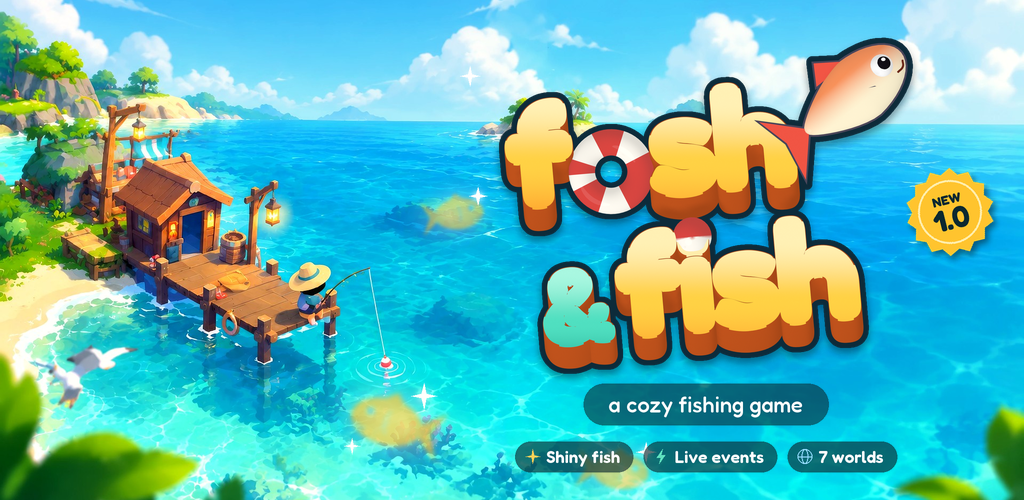
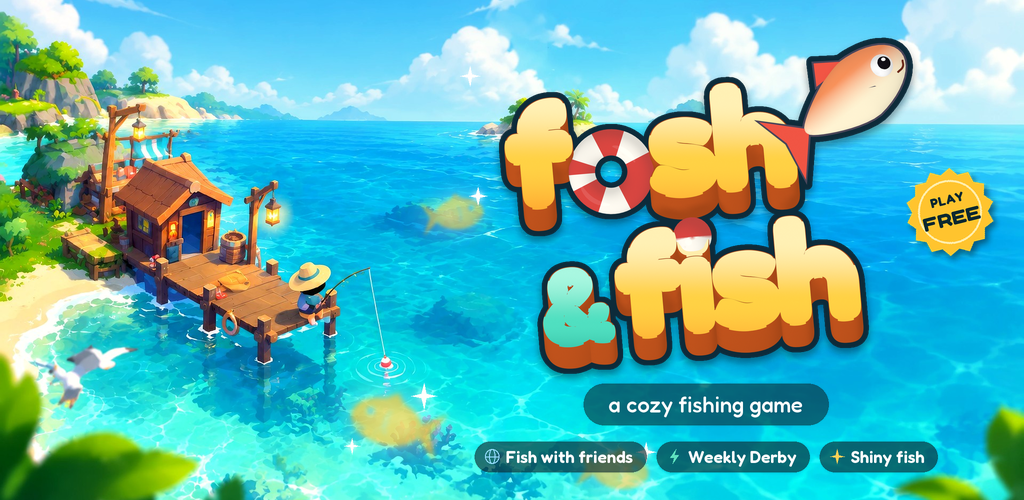
Store texts for today's game: the Play listing's highlights and what's new, ad texts for the friends and Derby ads, a feature graphic without a version number
The feature graphic's sticker says PLAY FREE (no '1.0': the listing outlives updates) and
its chips are Fish with friends, Weekly Derby, Shiny fish.

Changed region(s): [[0.4375, 0.87, 0.9375, 0.96], [0.9062, 0.39, 0.9688, 0.48]]

diff --git a/tools/art/make_play_kit.py b/tools/art/make_play_kit.py
@@ -101,8 +101,9 @@ def badge(ui, center, r, angle=-14.0):
     d = ImageDraw.Draw(b)
     d.polygon(pts, fill=(255, 196, 46, 255))
     d.ellipse((c - r * 0.72, c - r * 0.72, c + r * 0.72, c + r * 0.72), outline=(255, 238, 170, 255), width=max(2, int(r * 0.05)))
-    d.text((c, c - r * 0.3), "NEW", font=MB.font(int(r * 0.3), 700, 100), fill=MB.DEEP, anchor="mm")
-    d.text((c, c + r * 0.14), "1.0", font=MB.font(int(r * 0.66), 700, 112), fill=MB.DEEP, anchor="mm")
+    # (no version number on it: the listing outlives every update)
+    d.text((c, c - r * 0.3), "PLAY", font=MB.font(int(r * 0.3), 700, 100), fill=MB.DEEP, anchor="mm")
+    d.text((c, c + r * 0.14), "FREE", font=MB.font(int(r * 0.44), 700, 112), fill=MB.DEEP, anchor="mm")
     b = b.rotate(-angle, Image.BICUBIC)
     ui.alpha_composite(b, (int(center[0] - c), int(center[1] - c)))
 
@@ -175,7 +176,7 @@ def feature():
                                            fill=(11, 41, 48, 150))
     ui.alpha_composite(pill)
     ImageDraw.Draw(ui).text((px, py), text, font=f, fill=(255, 255, 255), anchor="mm")
-    chips(ui, px, py + th * 1.25, [("shiny", "Shiny fish", GOLD), ("bolt", "Live events", MB.MINT), ("globe", "7 worlds", (150, 220, 255))],
+    chips(ui, px, py + th * 1.25, [("globe", "Fish with friends", (150, 220, 255)), ("bolt", "Weekly Derby", MB.MINT), ("shiny", "Shiny fish", GOLD)],
           17 * SS)
     badge(ui, (950 * SS, 212 * SS), 44 * SS)
     c.alpha_composite(ui.resize((w, h), Image.LANCZOS))

diff --git a/store/ads/ad_copy.md b/store/ads/ad_copy.md
@@ -34,8 +34,10 @@ Google mixes these itself. Headlines: 30 characters at most. Descriptions: 90 at
 - Only 3,000 of each shiny fish exist, and every one is numbered. Catch yours in fosh&fish, a cozy fishing game.
 - Every 10 minutes of fishing, a new event: Golden Hour, Fish Frenzy, Meteor Showers, and the Leviathan.
 - Cast. Catch. Collect. A cozy fishing game with 7 worlds to fish in. Free on phone and PC.
+- Fish with your friends: send a code and their boats sail into your bay, live. Free in your browser.
+- 3 minutes, the same fish for everyone, one weekly board. Win the Derby Cup in fosh&fish.
 
-**Headline** (40 max): `Play fosh&fish free` · `Catch a numbered shiny` · `Something HUGE is coming`
+**Headline** (40 max): `Play fosh&fish free` · `Catch a numbered shiny` · `Something HUGE is coming` · `Fish with your friends` · `Win the Derby Cup`
 **Button**: Play Game (or Download / Install Now)
 
 ## YouTube: the trailer

diff --git a/store/play/listing.md b/store/play/listing.md
@@ -41,7 +41,7 @@ Made with love by afosh.
 **What's new in this version** (500 max):
 
 ```
-fosh&fish 1.0 is here! Shiny fish (only 3,000 of each in the world), a live event every 10 minutes of play with event fish and the Leviathan boss, the Event Shop and the Starfall Rod, Supporter Packs and Pearls, free ad rewards, new art and effects, and the whole game is 10% easier.
+Fish with friends, live: party codes, and their boats in your bay. Other players sail by. The weekly Fishing Derby with the Derby Cup. Share cards for your shinies and Derby scores. One Shop for everything, a quieter Menu, a Leaderboard of its own, and charms you can really fill (a rebirth needs them all again). A calmer phone screen and a much faster web start.
 ```
 
 **App category**: Game → Casual (or Simulation). **Tags**: Fishing, Casual, Idle, Collecting, Relaxing.
